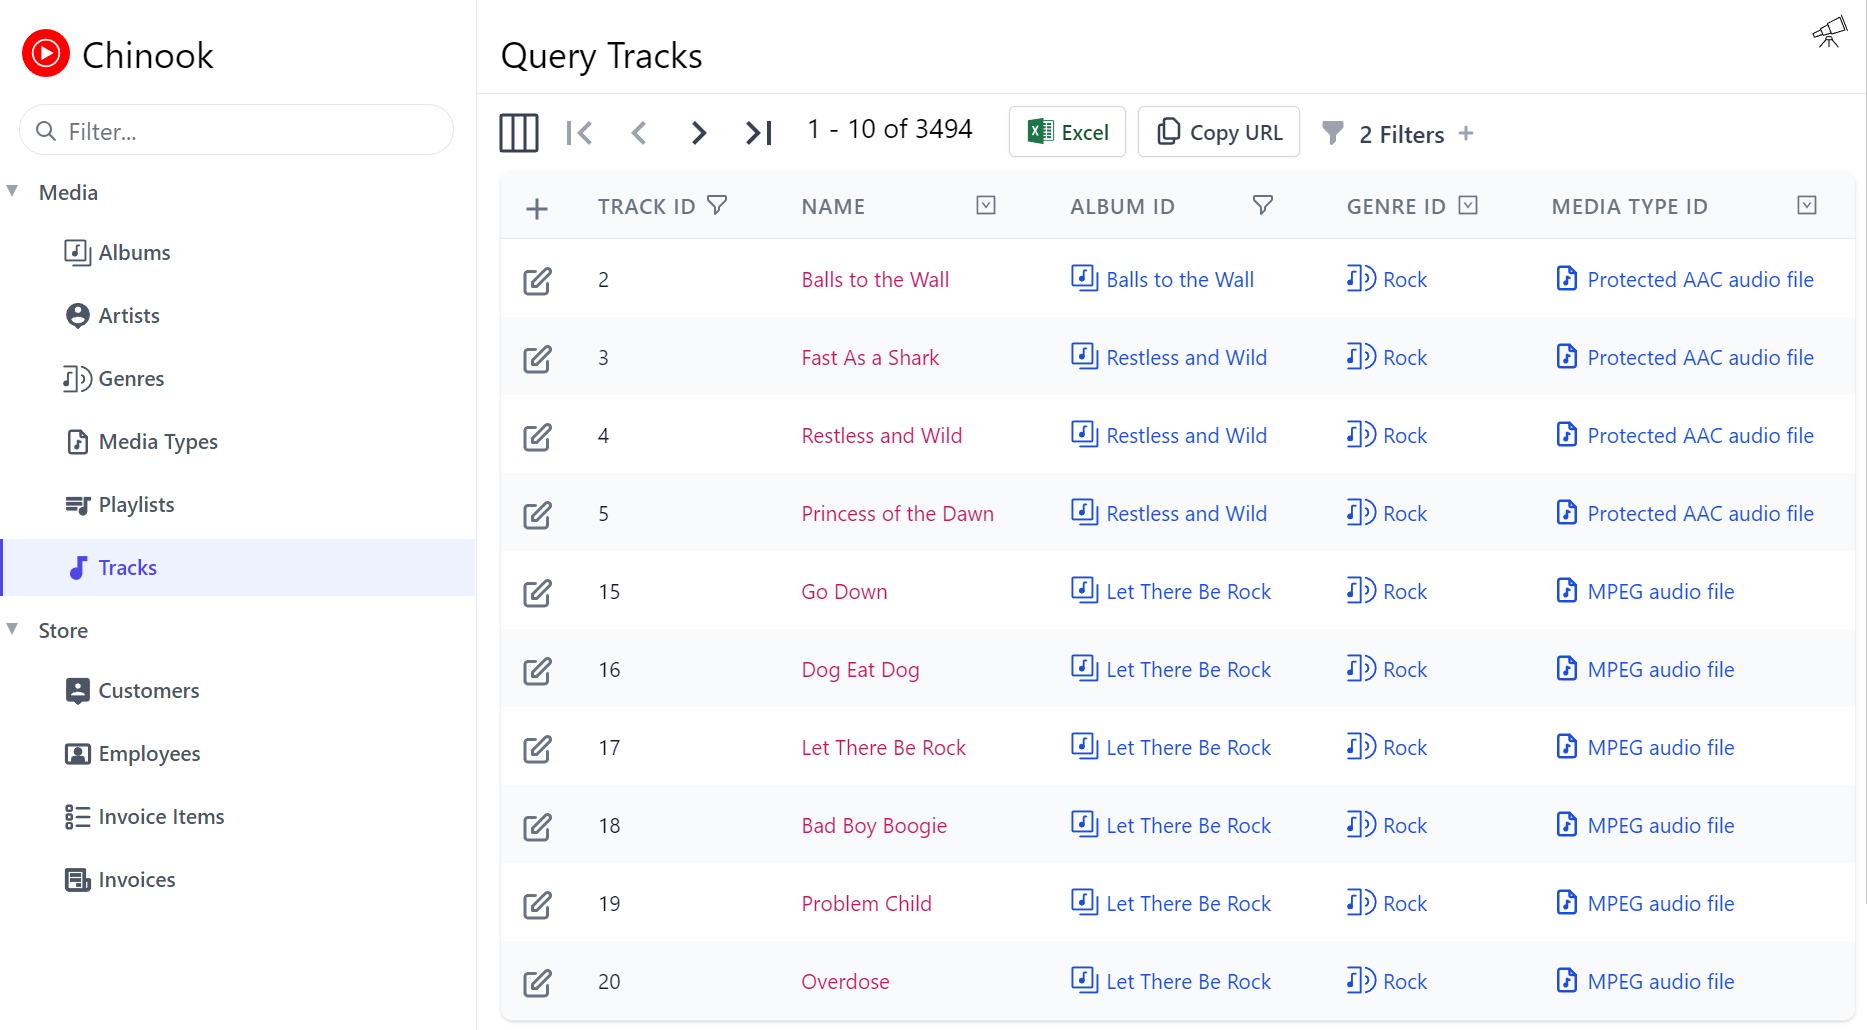
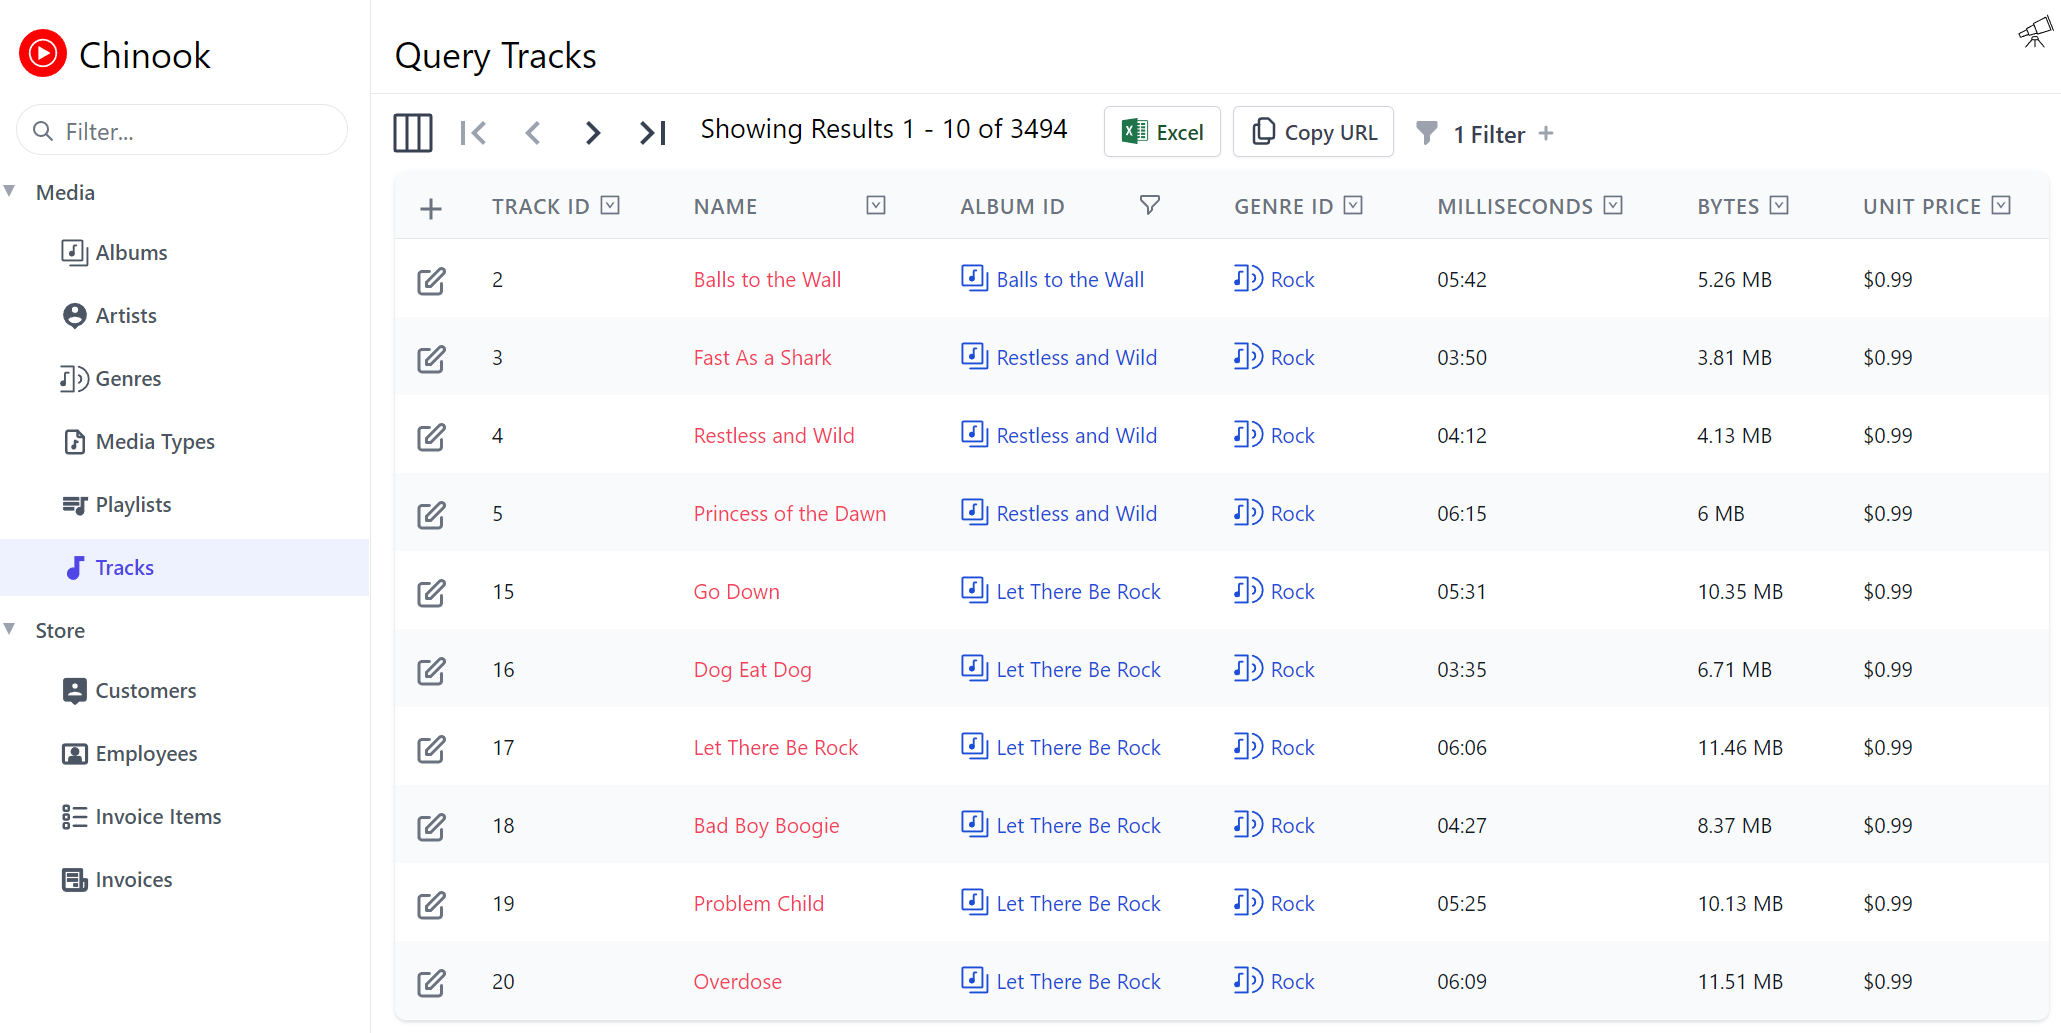
Change to use theme rose color links

diff --git a/Chinook/wwwroot/modules/locode/custom-end.html b/Chinook/wwwroot/modules/locode/custom-end.html
@@ -1,7 +1,7 @@
 <!---: Custom functionality in Locode App (added at end of page) -->
 <script>
 function stylize(val, opt) {
-    let cls = opt && opt.cls || 'text-pink-600' 
+    let cls = opt && opt.cls || 'text-green-600' 
     return `<span class="${cls}">${val}</span>`
 }
 </script>

diff --git a/Chinook.ServiceModel/Types/Models.cs b/Chinook.ServiceModel/Types/Models.cs
@@ -158,7 +158,7 @@ public class Tracks
     public long TrackId { get; set; }
 
     [Required]
-    [Format(Method = "stylize", Options = "{cls:'text-green-600'}")]
+    [Format(Method = "stylize", Options = "{cls:'text-rose-500'}")]
     public string Name { get; set; }
 
     [Ref(Model = nameof(Albums), RefId = nameof(AlbumId), RefLabel = nameof(Albums.Title))]
